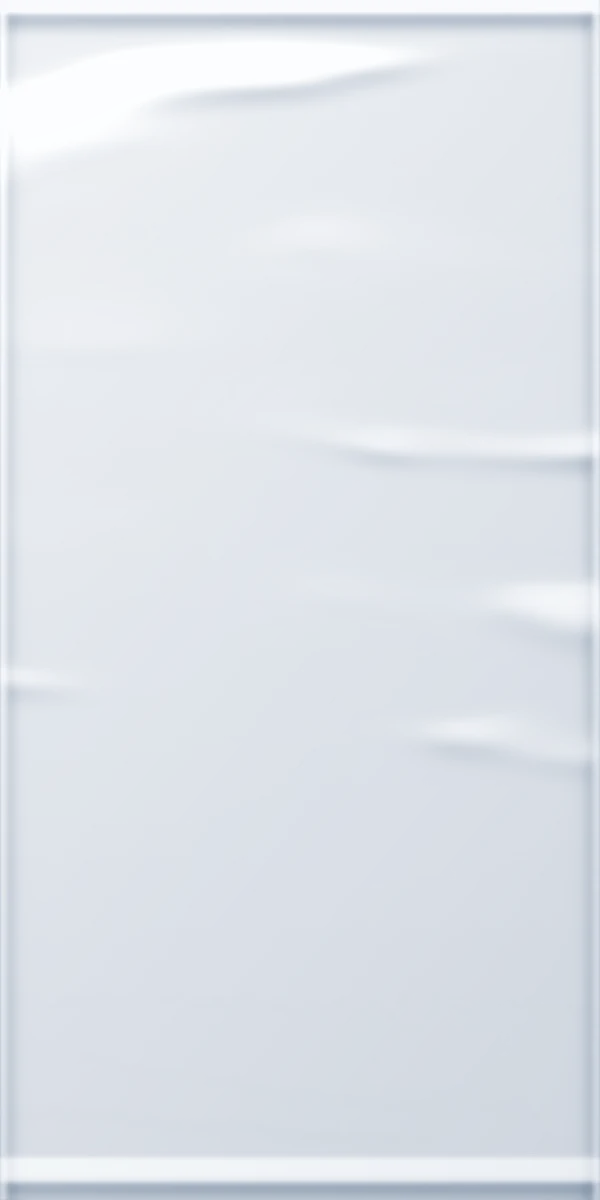
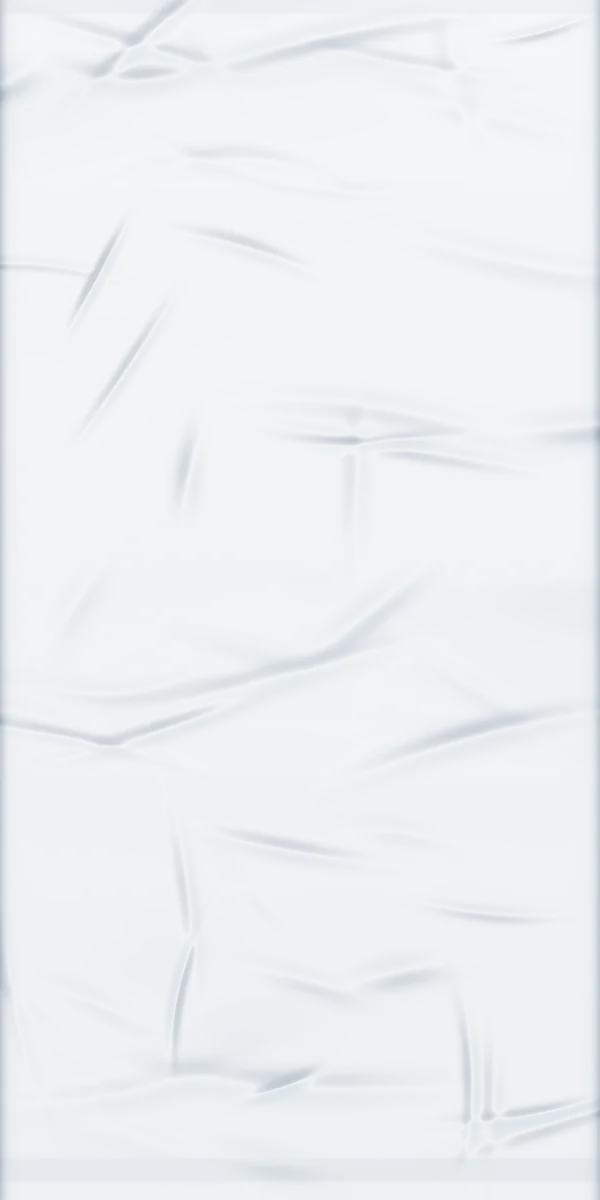
Fundas: la natural más delgada y con arrugas finas; la versión gris azulada pasa a polifán (Ian)
Claude-Session: https://claude.ai/code/session_019eLcR7jtdK9HcWidcwoZ6a

diff --git a/index.html b/index.html
@@ -5676,7 +5676,8 @@ html.night .ix-v-side{background:#2C323B}
     /* Ian (17 nov 2026: «se ven muy falsas»): la natural ahora es plástico hecho en Blender (Escritorio/Contenedor/fundas/funda_natural.py),
        con transparencia real: se dibuja SOLA, sin el degradado azulado, la boca ni el contorno dibujados (real: true). Antes: img/tex-natural.webp */
     natural: {src: "img/tex-natural-3d.webp", w: 600, h: 1200, top: 30, bot: 1140, real: true},
-    polifan: {src: "img/tex-polifan.webp", w: 400, h: 524, top: 10, bot: 509},
+    /* Ian (21 nov 2026): la versión gris azulada, más gruesa, va en polifán; la natural es más delgada y arrugada. Antes: img/tex-polifan.webp */
+    polifan: {src: "img/tex-polifan-3d.webp", w: 600, h: 1200, top: 30, bot: 1140, real: true},
     chequera: {src: "img/tex-chequera.webp", w: 400, h: 690, top: 14, bot: 649},
     rollo: {src: "img/tex-rollo.webp", w: 400, h: 732, top: 22, bot: 699}
   };
@@ -7529,7 +7530,7 @@ html.night{--pp-edge:rgba(143,162,255,.5);--pp-lift:0 1px 2px rgba(0,0,0,.3),0 1
 /* ===== Encabezado negro (Ian, 16 nov 2026: «mucho beige»; eligió negro, como el pie). Se redefinen los colores solo dentro de .top ===== */
 header.top,html.night header.top,body.on-inicio header.top{--ink:#F3F0E8;--muted:rgba(243,240,232,.66);--surface:#1B1F1E;--line:rgba(243,240,232,.18);--bg:#0E1110;--sky:#8FA2FF;--sky-soft:rgba(143,162,255,.14);
   background:#0E1110!important;border-bottom-color:#0E1110!important;color:#F3F0E8}
-/* Funda natural de Blender (17 nov 2026; con más presencia el 21 nov 2026: gris azulado, pliegues y costuras marcados): sombra suave en el borde, como una funda real sobre la mesa */
+/* Funda natural de Blender (17 nov 2026; 21 nov 2026: natural delgada con arrugas finas, polifán gris azulada con costuras marcadas): sombra suave en el borde, como una funda real sobre la mesa */
 #view-catalogo svg.bag .bag-real{filter:drop-shadow(0 0 1.5px rgba(40,55,70,.35)) drop-shadow(0 2px 3px rgba(40,55,70,.18))}
 html.night #view-catalogo svg.bag .bag-real{filter:drop-shadow(0 2px 4px rgba(0,0,0,.45))}
 /* Mostradores fijos (Ian, 17 nov 2026: «la imagen baja con el scroll y después se queda quieta»): ya no se pegan arriba al bajar, quedan en su lugar */
